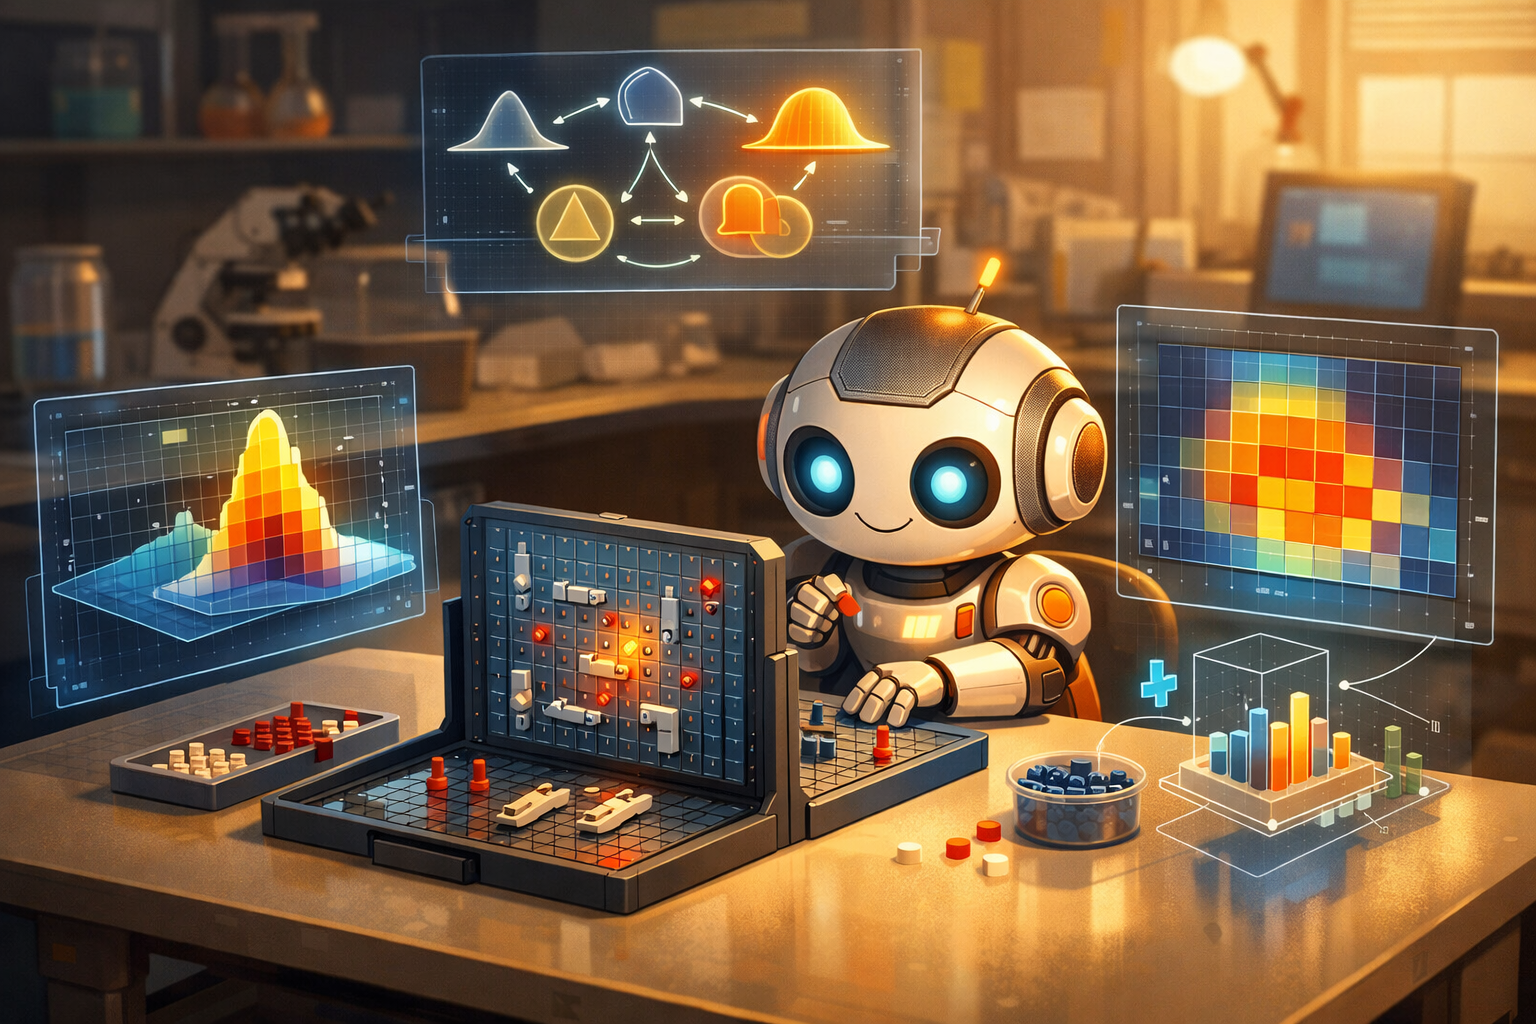
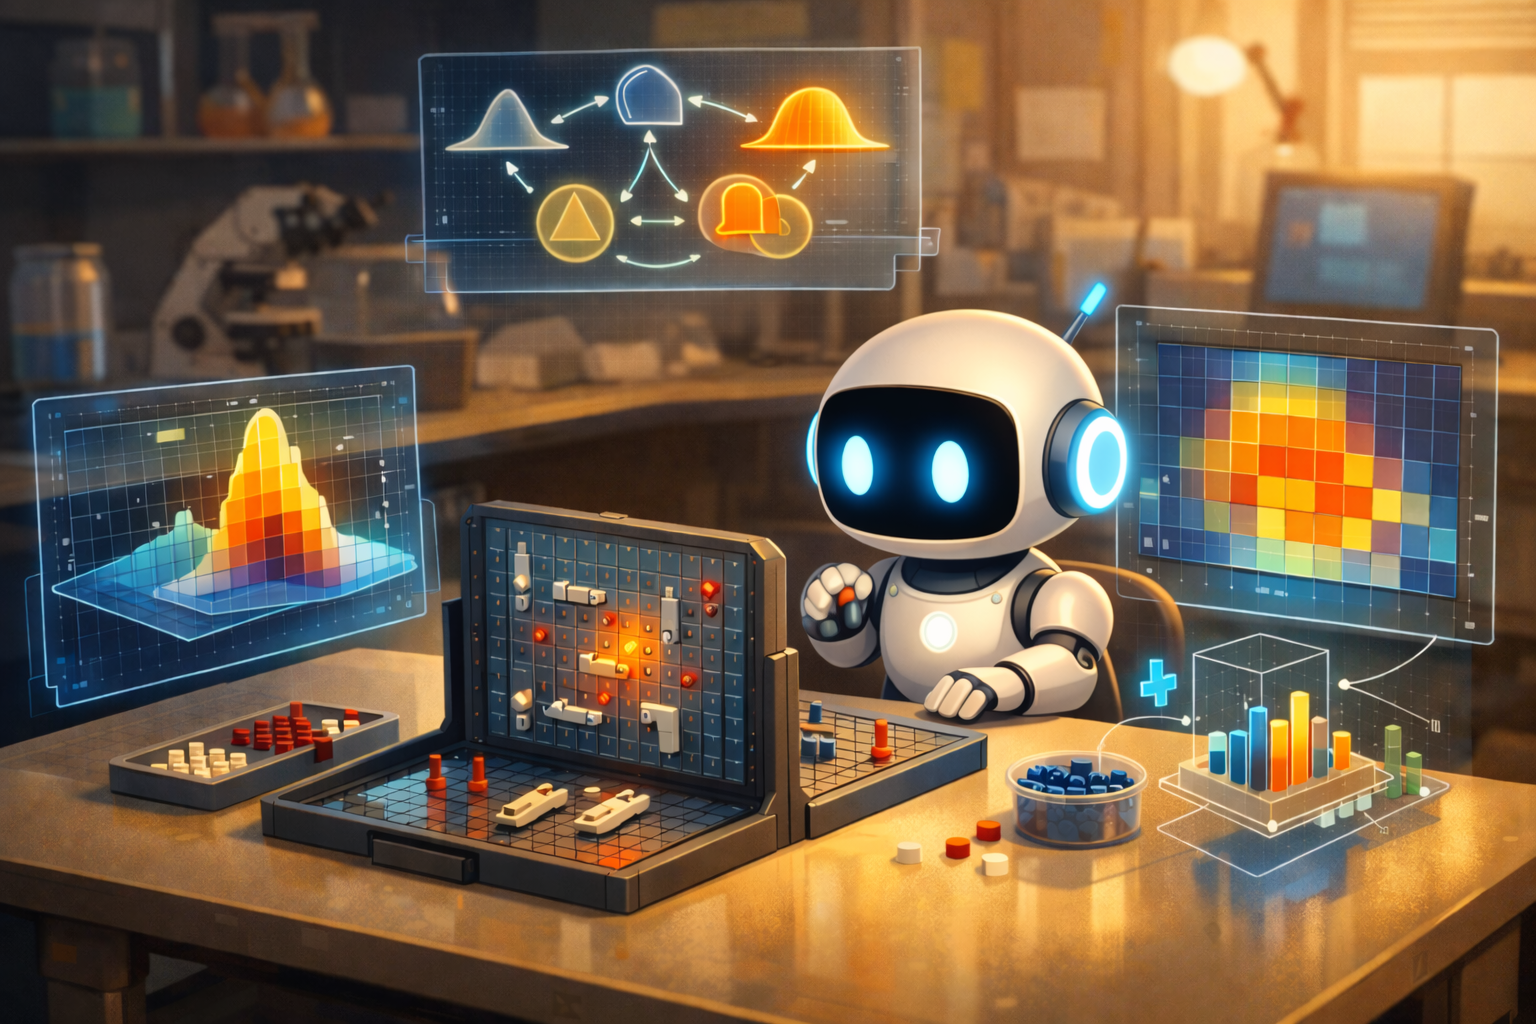
Restyle takeaways slide: cards to bullets, add image, reorder items
Convert takeaway cards to key-points bullet list with sequential
animations, swap bold for italics on descriptions, reorder bullets,
and add agent-battleship.png alongside the list.

diff --git a/docs/slides/index.html b/docs/slides/index.html
@@ -204,18 +204,18 @@
 
     /* ── Takeaway cards ── */
     .takeaway-grid {
-      display: grid; grid-template-columns: 1fr 1fr; gap: 24px; margin-top: 20px;
+      display: grid; grid-template-columns: 1fr 1fr; gap: 14px; margin-top: 12px;
     }
     .takeaway-card {
-      background: #f6f8ff; border-radius: 12px; padding: 24px;
+      background: #f6f8ff; border-radius: 10px; padding: 14px 16px;
       border-left: 4px solid #304ed8;
     }
     .takeaway-card h4 {
-      font-size: 0.72em; margin: 0 0 8px 0;
+      font-size: 0.6em; margin: 0 0 4px 0;
       text-align: left; color: #172642;
     }
     .takeaway-card p {
-      font-size: 0.58em; line-height: 1.55; margin: 0; color: #4a5770;
+      font-size: 0.48em; line-height: 1.45; margin: 0; color: #4a5770;
     }
 
     /* ── Stat boxes ── */
@@ -2394,22 +2394,30 @@
       <!-- J.0 Takeaways -->
       <section> <!-- J.0 #26 -->
         <h3>Takeaways</h3>
-        <div class="takeaway-grid">
-          <div class="takeaway-card">
-            <h4><i class="fas fa-check-circle" style="color: #304ed8;"></i> &nbsp;Necessary but not sufficient</h4>
-            <p>Controlled tasks are a <strong>prerequisite</strong> for trusting agents in real-world discovery</p>
+        <div class="two-col" style="align-items: center; gap: 36px;">
+          <div class="col">
+            <ul class="key-points" style="margin: 0;">
+              <li class="fragment fade-in-then-semi-out" data-fragment-index="0">
+                <span class="kp-icon"><i class="fas fa-balance-scale"></i></span>
+                <span class="kp-text"><span class="kp-label">Formalizing rationality:</span> <em>Define and measure</em> rational exploration against human and Bayesian baselines.</span>
+              </li>
+              <li class="fragment fade-in-then-semi-out" data-fragment-index="1">
+                <span class="kp-icon"><i class="fas fa-brain"></i></span>
+                <span class="kp-text"><span class="kp-label">World models as tools:</span> An <em>interactive simulator</em> lets agents test hypotheses before acting.</span>
+              </li>
+              <li class="fragment fade-in-then-semi-out" data-fragment-index="2">
+                <span class="kp-icon"><i class="fas fa-check-circle"></i></span>
+                <span class="kp-text"><span class="kp-label">Necessary but not sufficient:</span> Controlled tasks are a <em>prerequisite</em> for trusting agents in real-world discovery.</span>
+              </li>
+              <li class="fragment fade-in" data-fragment-index="3">
+                <span class="kp-icon"><i class="fas fa-rocket"></i></span>
+                <span class="kp-text"><span class="kp-label">From games to the real world:</span> Same principles apply to <em>agentic coding</em>, <em>medical diagnosis</em>, and <em>scientific discovery</em>.</span>
+              </li>
+            </ul>
           </div>
-          <div class="takeaway-card">
-            <h4><i class="fas fa-balance-scale" style="color: #304ed8;"></i> &nbsp;Formalizing rationality</h4>
-            <p><strong>Define and measure</strong> rational exploration against human and Bayesian baselines</p>
-          </div>
-          <div class="takeaway-card">
-            <h4><i class="fas fa-brain" style="color: #304ed8;"></i> &nbsp;World models as tools</h4>
-            <p>An <strong>interactive simulator</strong> lets agents test hypotheses before acting</p>
-          </div>
-          <div class="takeaway-card">
-            <h4><i class="fas fa-rocket" style="color: #304ed8;"></i> &nbsp;From games to the real world</h4>
-            <p>Same principles apply to <strong>agentic coding</strong>, <strong>medical diagnosis</strong>, and <strong>scientific discovery</strong></p>
+          <div class="col" style="flex: 0 0 36%; text-align: center;">
+            <img src="images/agent-battleship.png" alt="AI agent playing Battleship with Bayesian inference"
+                 style="width: 100%; border-radius: 10px; box-shadow: 0 4px 20px rgba(0,0,0,0.18);">
           </div>
         </div>
 
